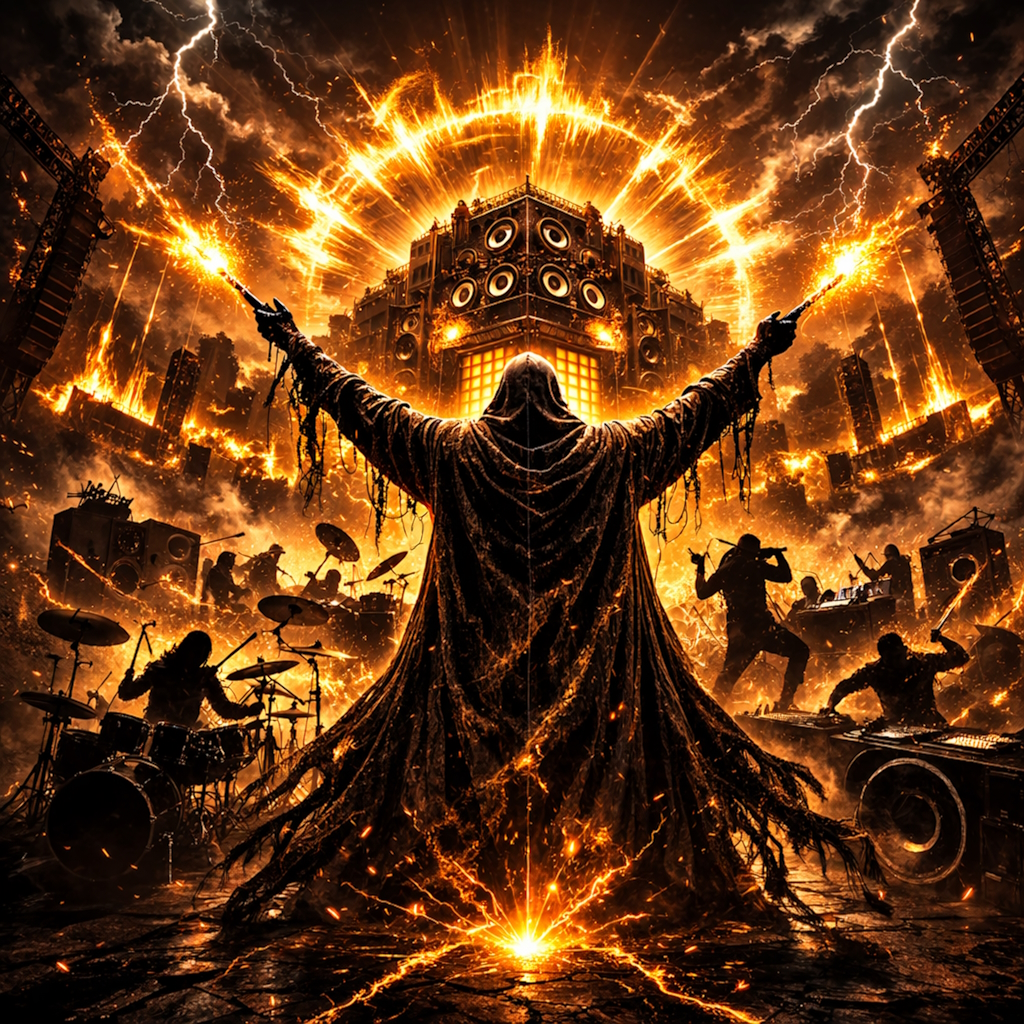
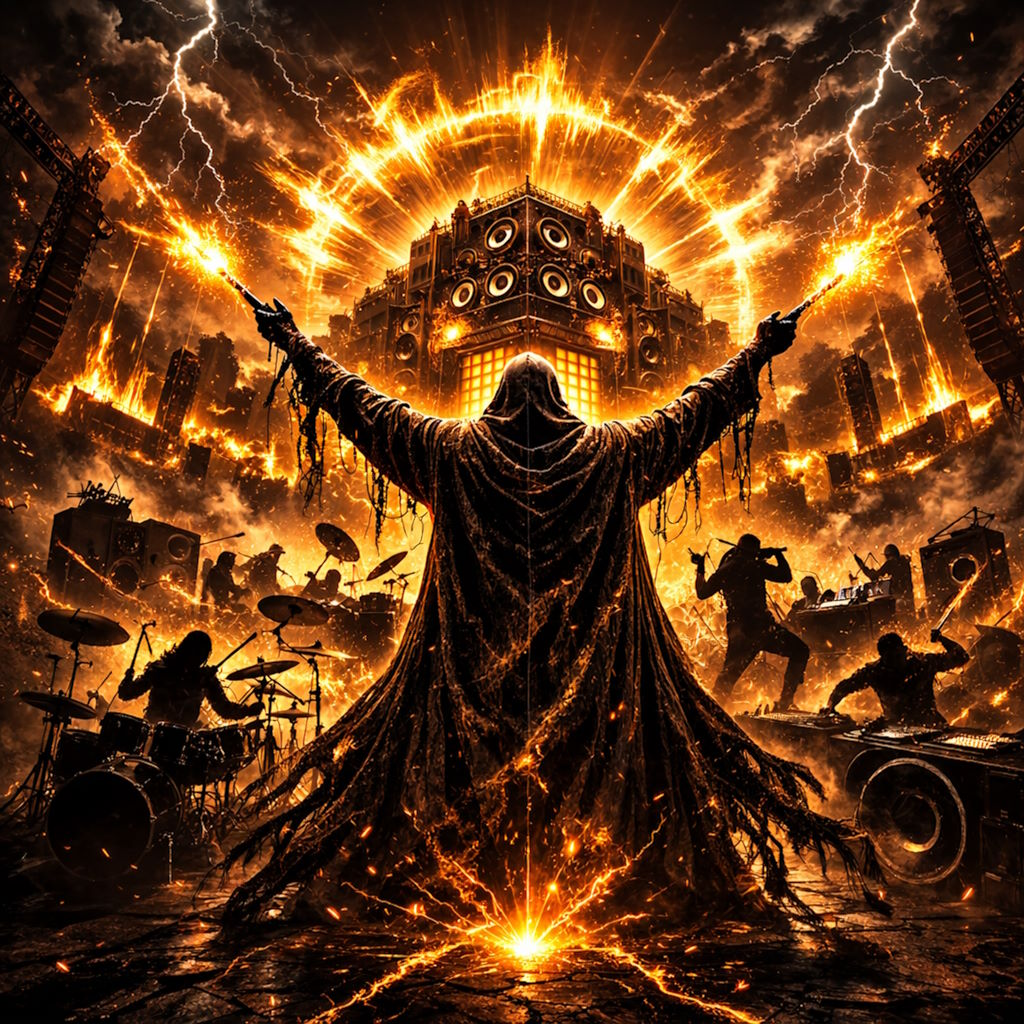
feat: polish hero background flow and clean project assets

diff --git a/src/config/site.ts b/src/config/site.ts
@@ -1,7 +1,7 @@
 import type { GoLinkKey, SiteConfig } from "@/types/site";
 
 export const websiteBio =
-  "KiXTiZM is my hardcore project. I make dark, kick-heavy tracks with a lot of energy, a lot of intent, and room for odd ideas that should not work but somehow do. The goal is simple: make tracks that hit hard, feel like their own thing, and actually stick with people.";
+  "KiXTiZM is my hardcore project, built around dark atmosphere, heavy kicks, and ideas that should not work together but somehow do. I like pulling in unexpected elements, whether that means orchestral parts, cinematic drama, voices, BPM changes, playful sounds, or textures that push the track somewhere stranger than usual. As long as the core stays hard, bouncy, and kick-driven, I want it to feel fresh, distinctive, and fully my own.";
 
 export const siteConfig = {
   name: "KiXTiZM",
@@ -16,12 +16,12 @@ export const siteConfig = {
   bio: websiteBio,
   hero: {
     eyebrow: "Norwegian hardcore producer",
-    tagline: "Dark hardcore, heavy kicks, and a bit too much electricity.",
+    tagline: "Dark hardcore, heavy kicks, and a bit too much of anything dissimilar.",
   },
   images: {
-    heroBanner: "/images/hero-banner.png",
+    heroBanner: "/images/hero-banner.jpg",
     profileAvatar: "/images/profile-avatar.jpg",
-    ogImage: "/images/hero-banner.png",
+    ogImage: "/images/hero-banner.jpg",
   },
   nav: [
     { label: "About", href: "#about" },

diff --git a/src/components/site/hero.tsx b/src/components/site/hero.tsx
@@ -15,7 +15,7 @@ export function Hero() {
   );
 
   return (
-    <section className="relative isolate min-h-[92svh] overflow-hidden border-b border-white/10">
+    <section className="relative isolate min-h-[92svh]">
       <Image
         src={siteConfig.images.heroBanner}
         alt=""
@@ -30,6 +30,8 @@ export function Hero() {
       <div className="absolute inset-0 bg-[radial-gradient(circle_at_center,rgba(255,139,31,0.20),transparent_34%)]" />
       <div className="absolute inset-0 bg-[linear-gradient(180deg,rgba(5,3,4,0.24)_0%,rgba(5,3,4,0.44)_38%,rgba(5,3,4,0.90)_100%)]" />
       <div className="absolute inset-0 bg-[linear-gradient(90deg,rgba(5,3,4,0.92)_0%,rgba(5,3,4,0.62)_42%,rgba(5,3,4,0.25)_100%)]" />
+      <div className="absolute inset-x-0 bottom-0 h-54 bg-[linear-gradient(180deg,rgba(5,3,4,0)_0%,rgba(5,3,4,0.76)_58%,#050304_100%)]" />
+      <div className="pointer-events-none absolute inset-x-0 -bottom-16 h-28 bg-[linear-gradient(180deg,rgba(5,3,4,0.92)_0%,#050304_100%)] blur-2xl" />
 
       <SiteHeader />
 

diff --git a/src/components/site/about-section.tsx b/src/components/site/about-section.tsx
@@ -5,9 +5,9 @@ import { SectionTitle } from "@/components/ui/section-title";
 import { siteConfig } from "@/config/site";
 
 const highlights = [
-  "Dark atmosphere, but still controlled",
-  "Heavy kicks first",
-  "Weird ideas are allowed if they actually work",
+  "Dark, kick-driven, and bouncy",
+  "Cinematic and dramatic stuff is very welcome",
+  "Weird ideas are even more welcome, as long as they work",
 ] as const;
 
 export function AboutSection() {
@@ -28,7 +28,7 @@ export function AboutSection() {
         <div className="space-y-8">
           <SectionTitle
             eyebrow="About"
-            title="Hard kicks first. The rest has to earn its place."
+            title="Hard kicks first. Everything else earns its place."
             body={siteConfig.bio}
           />
 

diff --git a/src/app/page.tsx b/src/app/page.tsx
@@ -28,7 +28,12 @@ export default function Home() {
         }}
       />
 
-      <main className="flex min-h-screen flex-col">
+      <main className="relative isolate flex min-h-screen flex-col overflow-hidden bg-[#050304]">
+        <div
+          aria-hidden="true"
+          className="pointer-events-none absolute inset-0 -z-10 bg-[radial-gradient(circle_at_50%_0%,rgba(255,139,31,0.10),transparent_26%),linear-gradient(180deg,#090506_0%,#070405_100%)]"
+        />
+
         <Hero />
         <AboutSection />
         <PlatformGrid />

diff --git a/src/app/globals.css b/src/app/globals.css
@@ -29,9 +29,7 @@ html {
 
 body {
   min-height: 100vh;
-  background:
-    radial-gradient(circle at top, rgba(255, 139, 31, 0.12), transparent 36%),
-    linear-gradient(180deg, #130b0c 0%, #090506 55%, #050304 100%);
+  background: #050304;
   color: var(--foreground);
   font-family: var(--font-geist-sans), Arial, Helvetica, sans-serif;
   text-rendering: optimizeLegibility;
